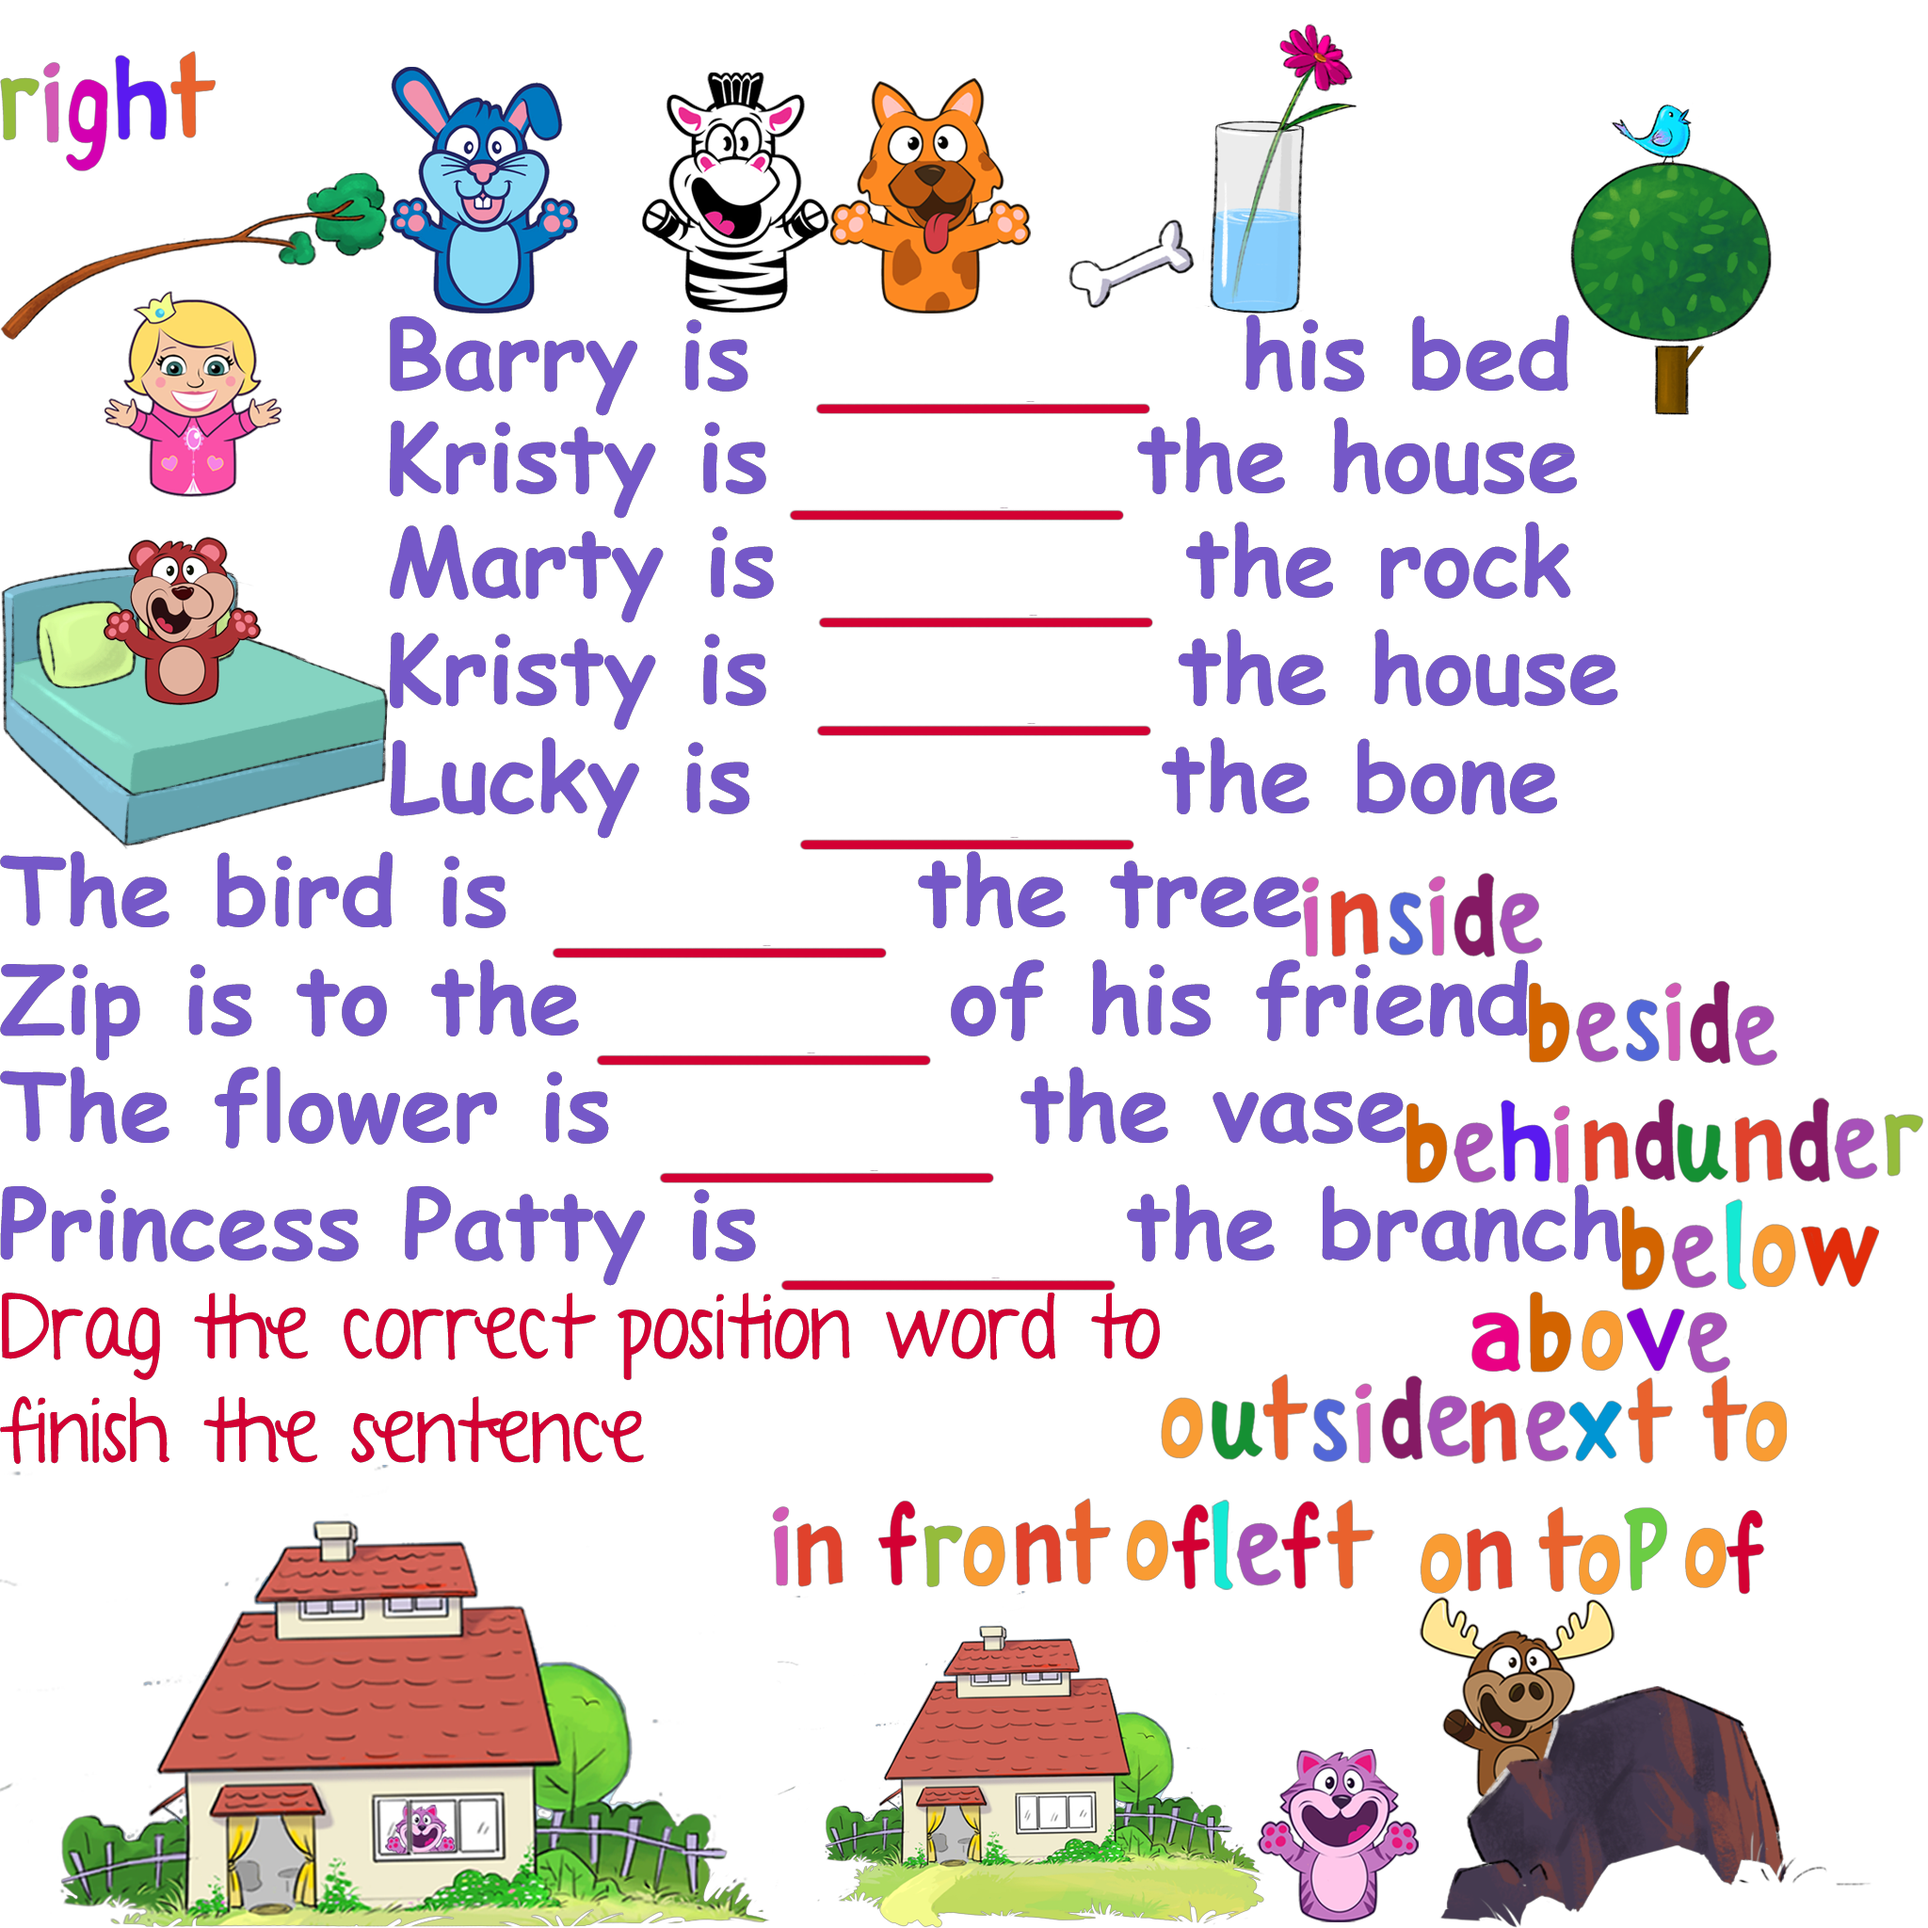
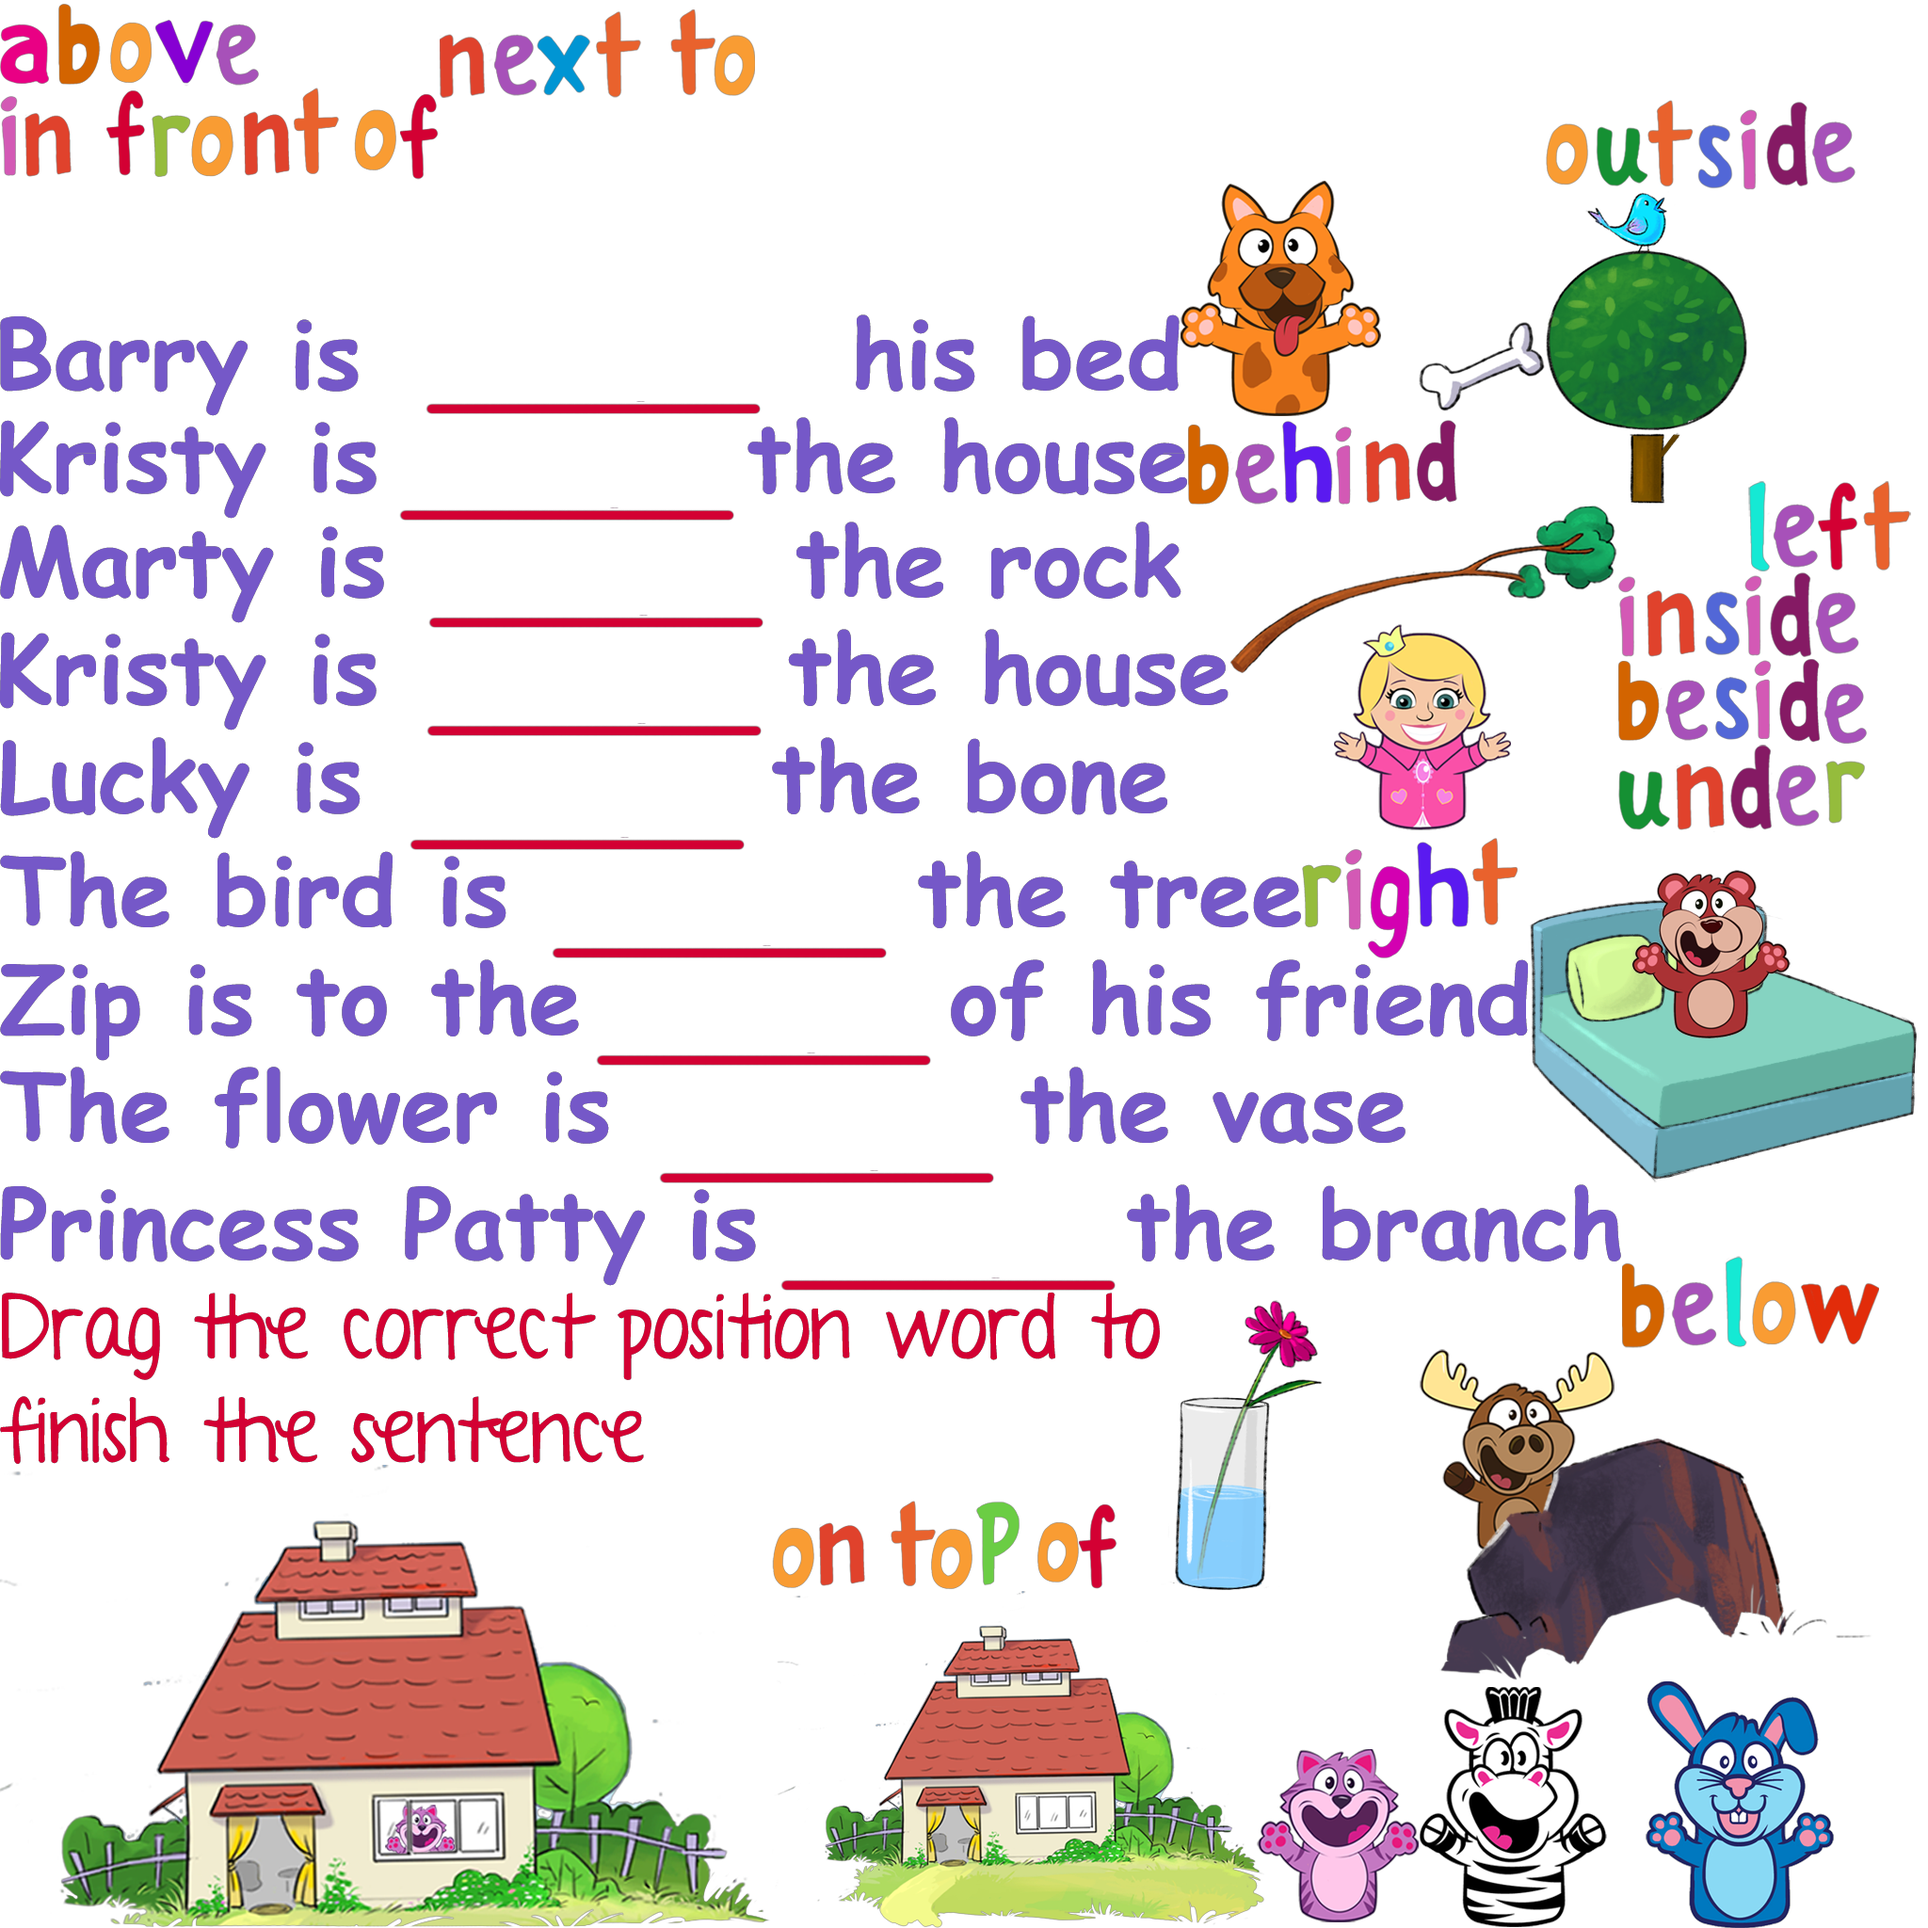
ZIP: Fixed zip left/right bugs in Letters/kindergarten/Position Words.

Changed region(s): [[0.0, 0.0, 1.0, 1.0]]

diff --git a/ZIP's Big Adventure/Assets/Scripts/Audio/VoiceTaskLevel.cs b/ZIP's Big Adventure/Assets/Scripts/Audio/VoiceTaskLevel.cs
@@ -15,7 +15,7 @@ public class VoiceTaskLevel : MonoBehaviour {
 	void PlayStart()
 	{
 		AudioManager.Instance.Stop ();
-		audio.Stop ();
+		//audio.Stop ();
 		if(clipStart != null)
 			StartCoroutine (PlayClipDelayed (clipStart, delayStart));
 	}
@@ -23,7 +23,7 @@ public class VoiceTaskLevel : MonoBehaviour {
 	void PlayEnd(bool correct)
 	{
 		if(!correct) return;
-		audio.Stop ();
+		//audio.Stop ();
 		if(clipFinish != null)
 			StartCoroutine (PlayClipDelayed (clipFinish, delayFinish));
 	}
